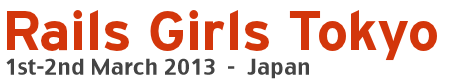
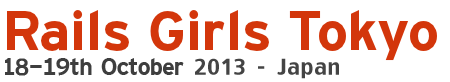
Add tokyo.html

Changed region(s): [[0.0, 0.7073, 0.7778, 0.9756]]

diff --git a/tokyo-2013-03-01.html b/tokyo-2013-03-01.html
@@ -4,22 +4,16 @@
     <meta charset="utf-8">
 
     <!--  Add your city name, dates and year.  -->
-    <title>Tokyo 18th-19th October 2013</title>
+    <title>Tokyo 1-2nd March 2013</title>
 
     <!--  Write a metatext. This is what will show on the Facebook page and for instance search engines. -->
 
-    <meta name="description" content="Rails Girls goes Tokyo 18-19th October: join the two-day crash-course to the exciting world of building web applications with Ruby on Rails.">
+    <meta name="description" content="Rails Girls goes Tokyo 1-2nd March: join the two-day crash-course to the exciting world of building web applications with Ruby on Rails.">
     <meta name="author" content="Rails Girls">
     <link rel="shortcut icon" href="/favicon.png">
     <link rel="apple-touch-icon" href="/apple-touch-icon.png">
 
     <link rel="stylesheet" href="./css/style.css">
-    <style>
-      .coach {
-        border-radius: 50px;
-      }
-    </style>
-
 
     <script type="text/javascript" src="https://ajax.googleapis.com/ajax/libs/jquery/1.4.4/jquery.min.js"></script>
     <script type="text/javascript" src="main.js"></script>
@@ -72,23 +66,22 @@ Steps to show on site
 
     <div id="container" class="container_12 page clearfix">
       <div class="grid_12 omega alpha">
-        <div id="promo" class="tokyo">
-          <h1>Rails Girls Tokyo 18th-19th October 2013</h1>
+        <div id="promo" class="tokyo-2013-03-01">
+          <h1>Rails Girls Tokyo 1-2nd March 2013</h1>
           <p>こんにちは世界！</p>
-          <p>第一回、第二回と、大好評のうちに終わったRails Girls Tokyo。
-             更なる第三回を開催し、新たな参加者を募集します。二日間のワークショップの間に、Ruby on Railsのすてきな世界を
+          <p>昨年、大好評のうちに終わったRails Girls Tokyo。新たに第二回を開催し、新たな参加者を募集します。二日間のワークショップの間に、Ruby on Railsのすてきな世界を
               体験してみませんか？ワークショップは無料です。めざせRuby忍者！</p>
-          <p> 9月18日までに、<a href="http://railsgirls-tokyo.doorkeeper.jp/events/5757">こちら</a>からお申し込みください。</p>
+          <p><strong> 2月1日に募集は締め切らせていただきました。たくさんのご応募ありがとうございました。</strong></p>
           <p> Hello world!</p>
-          <p>Rails Girls Tokyo is back again! During the free two-day workshop we'll dive into the magical world of Ruby on Rails. Go, Ruby ninja!</p>
-          <p>Apply Now! <a href="http://railsgirls-tokyo.doorkeeper.jp/events/5757">Applications</a> are open until the 18th of September.</p>
+          <p>Rails Girls Tokyo is back! During the free two-day workshop we'll dive into the magical world of Ruby on Rails. Go, Ruby ninja!</p>
+          <p>Application was closed at the 1st Feb. Thank you! </p>
 
           <!--  Update the sharing texts.-->
 
           <div id="share">
             <div>
               <div style="margin:0 15px 0 0;">
-                <a href="http://twitter.com/share" class="twitter-share-button" data-url="" data-text="Rails Girls Tokyo 18th-19th October - apply now!" data-count="horizontal" data-via="railsgirls" data-related="railsgirls">Tweet</a>
+                <a href="http://twitter.com/share" class="twitter-share-button" data-url="" data-text="Rails Girls Tokyo 1-2nd March - apply now!" data-count="horizontal" data-via="railsgirls" data-related="railsgirls">Tweet</a>
                 <script type="text/javascript" src="http://platform.twitter.com/widgets.js"></script>
               </div>
 
@@ -108,13 +101,16 @@ Steps to show on site
         <div class="grid_4 feature">
           <p><strong>必要なもの</strong> 自分のノートパソコン、やる気とキラリと光るイマジネーションを持ってきてください！</p>
         </div>
+        <div class="grid_4 omega feature">
+          <p><strong> たくさんのコーチのお申し出をいただきました。ありがとうございます。</strong></p>
+        </div>
 
         <hr />
 
         <!--  Update the texts! -->
 
         <div class="grid_6 alpha">
-          <h2>10月18日 金曜日</h2>
+          <h2>3月1日 金曜日</h2>
           <table id="schedule">
             <tbody>
               <tr>
@@ -130,7 +126,7 @@ Steps to show on site
 
           <hr />
 
-          <h2>10月19日 土曜日</h2>
+          <h2>3月2日 土曜日</h2>
 
           <table id="schedule">
             <tbody>
@@ -217,9 +213,9 @@ Steps to show on site
         <div class="grid_5 push_1 omega side">
           <h3>インフォメーション</h3>
           <p>
-            <strong>参加申し込み</strong><br/>
-            <strong>締め切り:</strong> 9月18日<br/>
-            <strong>参加了承の連絡:</strong>9月21日<br/>
+            <strong>参加申し込みは締め切らせていただきました。たくさんのご応募ありがとうございました。</strong><br/>
+            <strong>締め切り:</strong> 2月1日<br/>
+            <strong>参加了承の連絡:</strong>2月4日<br/>
             <strong>会場:</strong>
                 クックパッド株式会社 <a href="http://info.cookpad.com/location">地図</a><br/>
                 東京都港区白金台5-12-7　MG白金台ビル5F<br/>
@@ -231,13 +227,24 @@ Steps to show on site
           <h3>パートナー</h3>
 
           <p>Rails Girls Tokyo は以下のすばらしいパートナーとの共同開催です。</p>
-          <p>Rails Girlsは非営利イベントのパートナーあるいはスポンサーを探しています！ <a href="https://docs.google.com/forms/d/1RCNE4tJVGKuD9Bz9RwI2zRUyJ09uEvbk_P9866gKE2c/edit?pli=1">こちら</a>までご連絡ください！</p>
+          <p>Rails Girlsは非営利イベントのパートナーあるいはスポンサーを探しています！ <a href="https://docs.google.com/spreadsheet/viewform?formkey=dDk3czlKSEVDSGJxbmx0WHI5OHdxVkE6MQ">こちら</a>までご連絡ください！</p>
 
           <p><a href="http://cookpad.com" style="float:right; margin:0 0 0 15px; border:0;"><img src="images/cookpad-logo.png" alt="COOKPAD" width="200"></a><a href="http://cookpad.com">クックパッド</a> は、料理レシピの投稿・検索サービスとして1998年に誕生しました。現在の投稿レシピ数は120万品を超え、日々料理する20～30代の女性を中心に、月間1,500万人にご利用いただいています。今後はより幅広い年齢層の女性や男性にもご利用いただき、国内の約5,200万世帯全ての方々の生活インフラとなるサービスへと進化してまいります。</p>
 
           <p><a href="http://www.paperboy.co.jp/" style="float:right; margin:0 0 0 15px; border:0;"><img src="images/paperboy_sponsors.png" alt="paperboy&co." width="200"></a><a href="http://www.paperboy.co.jp/">株式会社paperboy&co.</a> 「もっとおもしろくできる」を企業理念として、より多くの人に情報発信する喜びを提供できるよう、レンタルサーバー「ロリポップ!」に代表される個人向けインターネットサービスの開発と運営をしている会社です。 2012 年から開発言語を PHP から Ruby に切り替えるなど、全社的に Ruby と Rails への取り組みを強化しています。 </p>
 
           <p><a href="http://mogok.jp/" style="float:right; margin:0 0 0 15px; border:0;"><img src="images/iij_sponsors.jpg" alt="IIJ" width="200"></a><a href="http://mogok.jp/">株式会社インターネットイニシアティブ</a> 私たちIIJは、MOGOKという少し変わった名前のRubyのPaaSを、国内のレスポンスのいい環境と安心の日本語サポートで提供しています。 MOGOKは「コンピュータに使われる人」ではなく「コンピュータを使う人」でありたいと願うすべてのRubyプログラマを支援します。</p>
+
+          <p><a href="http://www.ey-office.com/index.html" style="float:right; margin:0 0 0 15px; border:0;"><img src="images/ey-office_logo.png" alt="EY-Office" width="200"></a>企業向けRuby on Rails、iPhone開発のプライベートレッスンなら <a href="http://www.ey-office.com/index.html">EY-Office</a> 。御社のエンジニアに合わせた最適の教育を提供いたします。</p>
+
+          <p><a href="http://spicelife.jp/" style="float:right; margin:0 0 0 15px; border:0;"><img src="images/tmix.png" alt="tmix" width="220"></a><a href="http://spicelife.jp/">株式会社spice life</a>はECを通して世の中の笑顔を増やすサービスを作る会社。spice lifeで開発するのはECの分野だけど、普通のECではなく、ちょっと変わった、ちょっと新しい、ちょっと世の中を良くするようなECです。もちろんRuby（Rails）で開発しています。</p>
+
+          <p><a href="http://everyleaf.com/" style="float:right; margin:0 0 0 15px; border:0;"><img src="images/everyleaf-logo.png" alt="Everyleaf" width="150"></a><a href="http://everyleaf.com/">(株)万葉</a> は「楽しく、役に立つ開発」をモットーに、Ruby on Rails によるWebアプリケーション開発や、スマートフォンアプリの開発サービスを提供しています。開発実績はEC、グループウェア、業務アプリケーション、ゲームなど。万葉はRubyコミュニティと共に成長していきたいと考えています。</p>
+
+          <p><a href="http://coderwall.com/team/eiwa-system-management" style="float:right; margin:0 0 0 15px; border:0;"><img src="images/set-baseE_Y.png" alt="Eiwa System Management" width="150"></a>
+              私たち<a href="http://coderwall.com/team/eiwa-system-management">永和システムマネジメント</a>は Ruby や Ruby on Railsを活用したアプリケーションをアジャイルに構築できる
+              日本有数のソフトウェア受託企業です。私たちはお客さまの投資を最大化すべく研鑽を続けています。
+              また、Rubyコミュニティの支援も2006年から積極的に行っています。</p>
 
           <p><a href="http://www.heroku.com" style="float:right; margin:0 0 0 15px; border:0;"><img src="images/heroku-logo.png" alt="heroku" width="200"></a><a href="http://www.heroku.com">Heroku</a>は Ruby、Java、Node.jsなど、複数のプログラミング言語に対応した世界で最も先進的なPaaSです。Herokuは開発者の生産性を最大限に引き出し、サーバーや実行環境の維持管理・アプリケーションのデプロイ・スケーラ ビリティへの考慮から解放し、開発に１００%集中できる環境を提供します。</p>
 
@@ -252,7 +259,7 @@ Steps to show on site
 
           <p><strong>男性も参加できますか？</strong> 参加できます。ただし、必ずウェブアプリを作りたがっている女性と一緒に参加してください。申し込み人数が多い場合はお断りすることがあります。</p>
 
-          <p><strong>プログラミングの経験があります。手伝うことはできますか？</strong> ただいま<a href="https://docs.google.com/forms/d/1Sp8HPcr2EUK0o4D3ba-YXIydFSyfZEmCg5e0H0rqRkw/viewform">こちら</a>でコーチの募集を行っております。コーチ未経験の方もこの機会に是非ご応募ください。 </p>
+          <p><strong>プログラミングの経験があります。手伝うことはできますか？</strong> たくさんのご協力のお申し出をいただきまして、現在コーチの募集は終了しております。ありがとうございました！ 次回以降のRails Girlsのコーチにご興味をもたれた方は、どうぞオーガナイザーまでお声がけください。</p>
         </div>
 
         <hr />
@@ -261,26 +268,47 @@ Steps to show on site
         <div class="coaches">
           <h2>Tokyo team</h2>
 
-          <a href="https://twitter.com/emorima" class="grid_3">
-            <img src="http://www.gravatar.com/avatar/5c72a69ad460347a01aa05de9915c3e0" class="coach" />
-            Mayumi Emori<br/>organizer<small>@emorima</small></a>
+          <a href="https://twitter.com/yotii23" class="grid_3">Yuki Torii, organizer, coach<small>@yotii23</small></a>
 
-          <a href="https://twitter.com/yotii23" class="grid_3">
-            <img src="http://www.gravatar.com/avatar/c67596c92e9d161d314f69de3f05f00c" class="coach" />
-            Yuki Torii<br/> organizer<small>@yotii23</small></a>
+          <a href="https://twitter.com/hsbt" class="grid_3">Hiroshi Shibata, organizer, coach<small>@hsbt</small></a>
 
-          <a href="https://twitter.com/publichtml" class="grid_3">
-            <img src="http://www.gravatar.com/avatar/bd7d2803fdabab09e601924e18c2c662" class="coach" />
-            Wakana Odagiri<br/> organizer<small>@publichtml</small></a>
+          <a href="https://twitter.com/kakutani" class="grid_3">Shintaro Kakutani, organizer<small>@kakutani</small></a>
 
-          <a href="https://twitter.com/hsbt" class="grid_3">
-            <img src="http://www.gravatar.com/avatar/eabad423977cfc6873b8f5df62b848a6" class="coach" />
-            Hiroshi Shibata<br/> organizer, coach<small>@hsbt</small></a>
+          <a href="https://twitter.com/a_matsuda" class="grid_3">Akira Matsuda, coach<small>@a_matsuda</small></a>
 
-          <a href="https://twitter.com/kakutani" class="grid_3">
-            <img src="http://www.gravatar.com/avatar/63a6bff89d692e21de20868202bc8dde" class="coach" />
-            Shintaro Kakutani<br/> organizer<small>@kakutani</small></a>
+          <a href="https://twitter.com/t_wada" class="grid_3">Takuto Wada, coach<small>@t_wada</small></a>
 
+          <a href="https://github.com/takai" class="grid_3">Naoto Takai, coach<small>@takai</small></a>
+
+          <a href="https://twitter.com/mrkn" class="grid_3">Kenta Murata, coach<small>@mrkn</small></a>
+
+          <a href="https://twitter.com/moro" class="grid_3">Kyosuke Morohashi, coach <small>@moro</small></a>
+
+          <a href="https://twitter.com/akiinyo" class="grid_3">Aki Tagaki, coach <small>@akiinyo</small></a>
+
+          <a href="https://twitter.com/trmmy" class="grid_3">Motoyuki Terashima, coach <small>@trmmy</small></a>
+
+          <a href="https://twitter.com/cesare" class="grid_3">Tadashi Sawada, coach <small>@cesare</small></a>
+
+          <a href="https://twitter.com/ffu_" class="grid_3">Daisuke Fujimura, coach <small>@ffu_</small></a>
+
+          <a href="https://twitter.com/2celeb" class="grid_3">Makoto Takagi, coach <small>@2celeb</small></a>
+
+          <a href="https://twitter.com/littlestarling" class="grid_3">Takashi Ogura, coach <small>@littlestarling</small></a>
+
+          <a href="https://twitter.com/igaiga555" class="grid_3">Kuniaki Igarashi, coach<small>@igaiga555</small></a>
+
+          <a href="https://twitter.com/tatsuoSakurai" class="grid_3">Tatsuo Sakurai, coach<small>@tatsuoSakurai</small></a>
+
+          <a href="https://twitter.com/chobishiba" class="grid_3">Miyuki Koshiba, coach<small>@chobishiba</small></a>
+
+          <a href="https://twitter.com/hokkai7go" class="grid_3">Yutaro Sugai, coach <small>@hokkai7go</small></a>
+
+          <a href="https://twitter.com/publichtml" class="grid_3">Wakana Odagiri, coach<small>@publichtml</small></a>
+
+          <a href="https://twitter.com/udzura" class="grid_3">Uchio KONDO, coach<small>@udzura</small></a>
+
+          <a href="https://twitter.com/_zoo" class="grid_3">Misa Kondo, staff<small>@_zoo</small></a>
         </div>
       </div>
     </div>

diff --git a/events.html b/events.html
@@ -84,6 +84,10 @@
           <h3>Istanbul, Turkey <small>4th & 5th October 2013</small></h3>
       </a>
 
+      <a href="./tokyo.html" class="omega event grid_4" style="background:url(images/rg-tokyo.jpg) 0px -40px no-repeat;">
+          <h3>Tokyo, Japan <small>18th & 19th October 2013</small></h3>
+      </a>
+
       <a href="./south-florida.html" class="omega event grid_4" style="background:url(images/south-florida/rg-sfl.jpg) 0px -40px no-repeat;">
         <h3>South Florida, USA<small>6 November 2013 </small></h3>
       </a>
@@ -274,7 +278,7 @@
         <h3>Rheinland, Germany <small>1-2 March 2013</small></h3>
       </a>
 
-      <a href="./tokyo.html" class="omega event grid_4" style="background:url(images/rg-tokyo.png) 0px -40px no-repeat;">
+      <a href="./tokyo-2013-03-01.html" class="omega event grid_4" style="background:url(images/rg-tokyo-2013-03-01.png) 0px -40px no-repeat;">
         <h3>Tokyo, Japan <small>1-2 March 2013</small></h3>
       </a>
 

diff --git a/css/style.css b/css/style.css
@@ -329,9 +329,15 @@ background:url('../images/rg-yourcityname.png') no-repeat 0 10px,
                  url('../images/separator.png') no-repeat center bottom;
   }
 
+.tokyo-2013-03-01#promo {
+  padding-left:340px;
+  background:url('../images/rg-tokyo-2013-03-01.png') no-repeat 0 10px,
+                 url('../images/separator.png') no-repeat center bottom;
+  }
+
 .tokyo#promo {
   padding-left:340px;
-  background:url('../images/rg-tokyo.png') no-repeat 0 10px,
+  background:url('../images/rg-tokyo.jpg') no-repeat 0 10px,
                  url('../images/separator.png') no-repeat center bottom;
   }
 
@@ -643,6 +649,10 @@ pre {
 
 .tokyo-2012-09-07#promo h1 {
   background:url('../images/rg-tokyo-header-2012-09-07.png') no-repeat left top;
+}
+
+.tokyo-2013-03-01#promo h1 {
+  background:url('../images/rg-tokyo-header-2013-03-01.png') no-repeat left top;
 }
 
 .tokyo#promo h1 {

diff --git a/index.html b/index.html
@@ -125,6 +125,12 @@
                 <h3>Istanbul, Turkey<br/><span> October 4 & 5, 2013</span></h3>
               </a>
 
+              <a href="./tokyo.html" class="upcoming">
+                <img src="./images/railsgirls-sq.png" width="50">
+                <h3>Tokyo, Japan<br/><span> October 18 & 19, 2013</span></h3>
+              </a>
+
+
               <a href="./south-florida.html" class="upcoming">
                 <img src="./images/south-florida/rg-sfl-100.png" width="50">
                 <h3>South Florida, USA<br/><span>November 6, 2013</span></h3>
